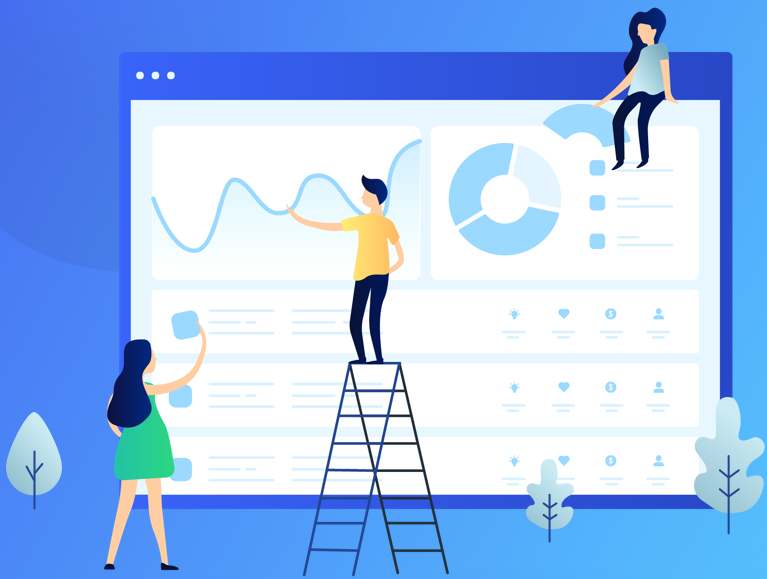
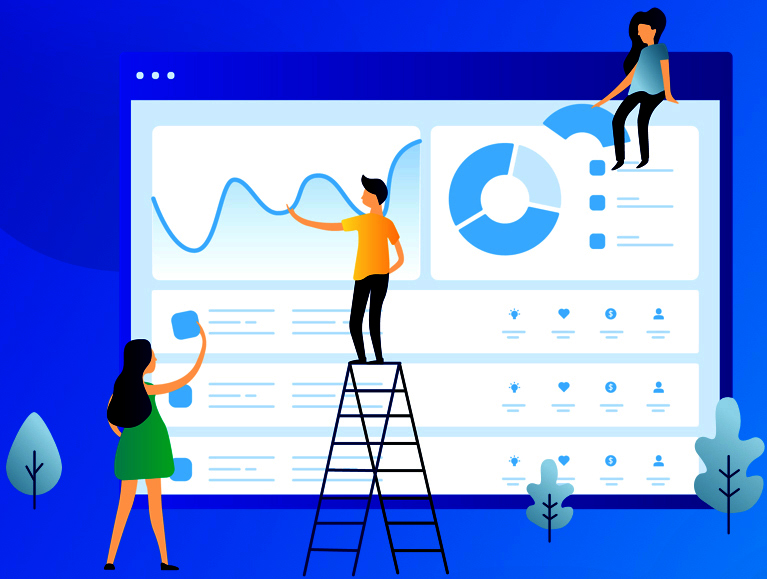
First Commit changed background image

diff --git a/css/styles.css b/css/styles.css
@@ -20,9 +20,17 @@ h1 {
 
 body {
 	height:100%;  /* For browsers that do not support gradients */
-  	background-image: linear-gradient(#0f0ff1, #ac9ae8);
+  	//background-image: linear-gradient(#0f0ff1, #ac9ae8);
   	overflow-x: hidden;
+  	position: relative;
+}
 
+.back-img{
+	width: 100%;
+	height: 100%;
+	z-index: -1;
+	position: absolute;
+	background-repeat: repeat;
 }
 
 p {
@@ -149,7 +157,7 @@ hr {
 	color:white;
 }
 .black{
-	color:black;
+	color:white;
 }
 #one{
 	margin-top:160px;
@@ -167,4 +175,12 @@ hr {
 .link{
 	color:blue;
 	text-decoration: none !important;
+}
+
+#footer{
+	//position: fixed;
+	padding-bottom: 0px;
+	margin-bottom: 0px;
+    bottom: 0;
+    height: 100%;
 }

diff --git a/index.html b/index.html
@@ -11,8 +11,7 @@
 </svg>
 </head>
 <body>
-
-	
+	<img src="Images/img3.jpg" class="back-img">
 <header class="nav-header">
     <nav class="navbar navbar-expand-lg navbar-light bg-light">
 
@@ -120,7 +119,7 @@
 		</div>
 	</section>
 
-	<fooater id="footer">
+	<footer id="footer">
 		<div class="row mt-5">
 			<div class="col-md-12">
 				<div class="alert alert-dark">
